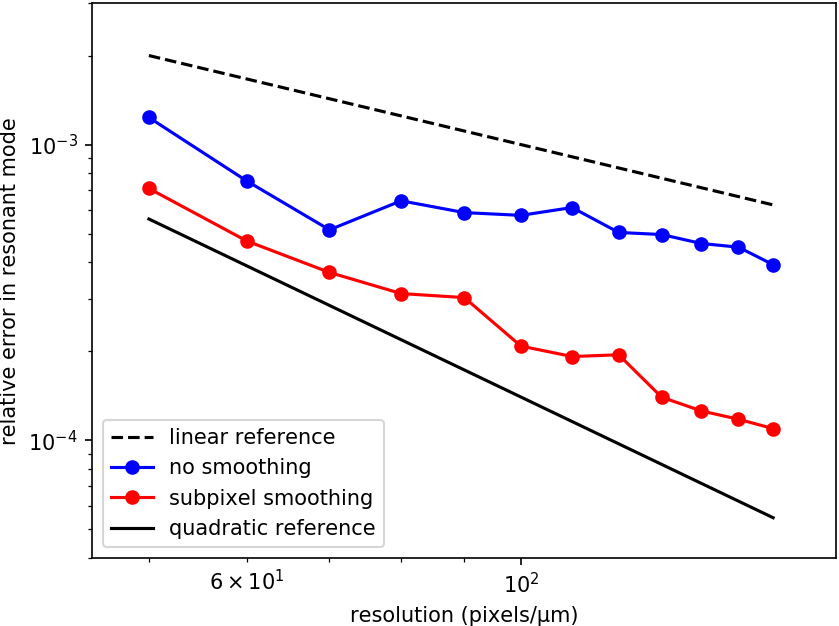
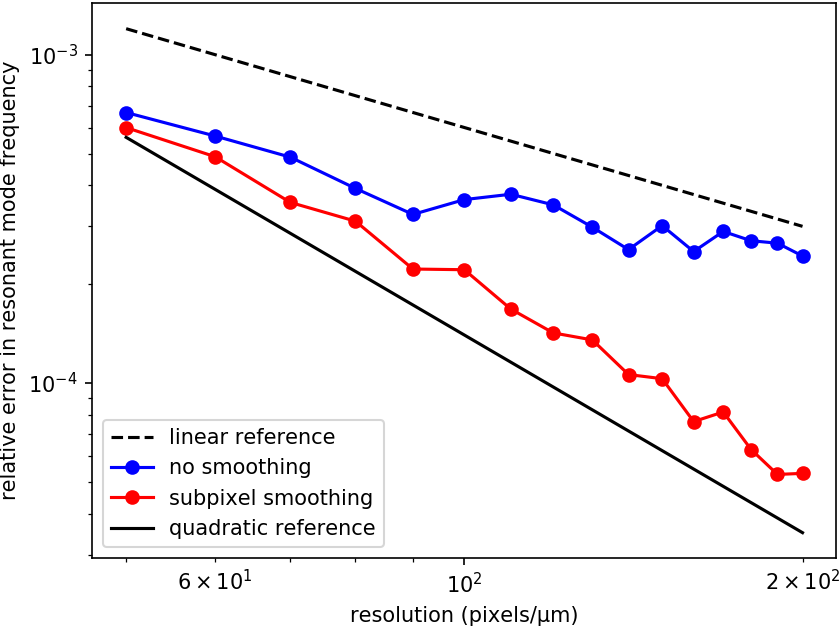
minor updates to docs

diff --git a/doc/docs/Subpixel_Smoothing.md b/doc/docs/Subpixel_Smoothing.md
@@ -74,15 +74,15 @@ for rad in np.arange(1.800,2.001,0.005):
     sim.reset_meep()
 ```
 
-A plot of the resonant frequency versus the ring radius is shown below for subpixel smoothing (red) and no smoothing (blue). Included for reference is the "exact" result (black) computed using *no smoothing* at a resolution of 60 pixels/μm. The no smoothing result shows a stairstepped discontinuous eigenfrequency. The subpixel-smoothing result varies continuously with the ring radius similar to the exact result which is at a resolution six times larger. Finally, the inset shows the scalar H<sub>z</sub> field profile of the resonant mode for a structure with inner radius of 1.9 μm.
+A plot of the resonant frequency versus the ring radius is shown below for subpixel smoothing (red) and no smoothing (blue). Included for reference is the high-resolution result (black) computed using *no smoothing* at a resolution of 60 pixels/μm. The no-smoothing result shows "staircasing" effects which are artifacts of the discretization. The subpixel-smoothing result varies continuously with the ring radius similar to the high-resolution result which is at a resolution six times larger. The inset shows the scalar H<sub>z</sub> field profile of the resonant mode for a structure with inner radius of 1.9 μm.
 
-The chosen resonant mode has a [quality (Q) factor](https://en.wikipedia.org/wiki/Q_factor) of ~10<sup>7</sup> at a frequency of 0.25 and radius of 2.0 μm. This means that roughly 6x10<sup>6</sup> optical periods are required to accurately resolve the field decay due to the Fourier uncertainty relation. Instead, [`Harminv`](Python_User_Interface.md#harminv) can resolve the Q using just ~1000 periods. This is nearly a four orders of magnitude reduction in the run time.
+This particular resonant mode has a [quality (Q) factor](https://en.wikipedia.org/wiki/Q_factor) of ~10<sup>7</sup> at a frequency of 0.25 and radius of 2.0 μm. This means that roughly 4x10<sup>7</sup> optical periods are required to accurately resolve the field decay due to the Fourier uncertainty relation. Instead, [`Harminv`](Python_User_Interface.md#harminv) can resolve the Q using just ~1000 periods. This is nearly a four orders of magnitude reduction in the run time.
 
 <center>
 ![](images/ring_vary_radius.png)
 </center>
 
-To compare the convergence rate of the discretization error, the following plot shows the error of the resonant mode (relative to the "exact" result at a resolution of 300 pixels/μm) as a function of the grid resolution for a ring geometry with a fixed radius of 1.1 μm. The no smoothing results have a linear error due to the stairstepped interface discontinuities. The subpixel smoothing results have roughly second-order convergence.
+To compare the convergence rate of the discretization error, the following plot shows the error in the resonant mode frequency (relative to the high-resolution result at a resolution of 300 pixels/μm) as a function of the grid resolution for a ring geometry with a fixed radius of 2.0 μm. The no smoothing results have a linear error due to the stairstepped interface discontinuities. The subpixel smoothing results have roughly second-order convergence.
 
 <center>
 ![](images/ring_subpixel_smoothing_rate.png)

diff --git a/doc/docs/FAQ.md b/doc/docs/FAQ.md
@@ -347,6 +347,8 @@ The [discrete time Fourier transform](https://en.wikipedia.org/wiki/Discrete-tim
 
 To improve [load-balancing](https://en.wikipedia.org/wiki/Load_balancing_(computing)), the parallelization can be made to take the DTFT computation into account by specifying `split_chunks_evenly=False`. This option divides the grid into [chunks](Chunks_and_Symmetry.md) with nearly-equal *cost* rather than *size* such that the region in which the DTFT fields are computed is optimally partitioned among the processors.
 
+[Synchronization](Synchronizing_the_Magnetic_and_Electric_Fields.md) of the fields (i.e., for `add_flux`, `add_energy`, `add_near2far`, etc.), which is both expensive and unnecessary, is *not* performed or required for second-order accuracy when accumulating the Fourier transforms. In the [Fourier summation](Introduction.md#transmittancereflectance-spectra), you multiply the field by exp(iωt) and add the product (multiplied by Δt) to the Fourier amplitude. The value of "t" is simply different for the E and H fields because they are staggered in time by half a timestep.
+
 Note: a simple approach to reduce the cost of the DTFT computation is to reduce the number of frequency points. If you need high frequency resolution in a certain bandwidth, consider adding a second flux region just for that bandwidth, with as many points as you need there, and use a smaller number of frequency points over a broad bandwidth.
 
 ### Does Meep support shared-memory parallelism?
@@ -419,4 +421,4 @@ The second approach is based on a full nonlinear simulation of the Raman process
 
 ### Does Meep support adjoint-based optimization?
 
-Not currently but work is underway to add support for this feature with expected release in early 2019 (issue [#600](https://github.com/NanoComp/meep/pull/600)).
+Almost. There is currently a [pull request](https://github.com/NanoComp/meep/pull/795) for this feature which will be merged soon.

diff --git a/doc/docs/Python_Tutorials/Near_to_Far_Field_Spectra.md b/doc/docs/Python_Tutorials/Near_to_Far_Field_Spectra.md
@@ -174,9 +174,8 @@ sim.run(until_after_sources=mp.stop_when_fields_decayed(50, mp.Hz, mp.Vector3(0.
 d2 = 20
 h = 4
 
-sim.output_farfields(nearfield, "spectra-{}-{}-{}".format(d1, d2, h),
-                     mp.Volume(mp.Vector3(0, (0.5 * w) + d2 + (0.5 * h)), size=mp.Vector3(sx - 2 * dpml, h)),
-                     resolution)
+sim.output_farfields(nearfield, "spectra-{}-{}-{}".format(d1, d2, h), resolution,
+                     mp.Volume(mp.Vector3(0, (0.5 * w) + d2 + (0.5 * h)), size=mp.Vector3(sx - 2 * dpml, h)))
 ```
 
 The first item to note is that the far-field region is located <i>outside</i> of the cell, although in principle it can be located anywhere. The second is that the far-field spectra can be interpolated onto a spatial grid that has any given resolution but in this example we used the same resolution as the simulation. Note that the simulation itself used purely real fields but the output, given its analytical nature, contains complex fields. Finally, given that the far-field spectra is derived from the Fourier-transformed fields which includes an arbitrary constant factor, we should expect an overall scale and phase difference in the results obtained using the near-to-far-field feature with those from a corresponding simulation involving the full computational volume. The key point is that the results will be qualitatively but not quantitatively identical. The data will be written out to an HDF5 file having a filename prefix with the values of the three main parameters. This file will includes the far-field spectra for all six field components, including real and imaginary parts.
